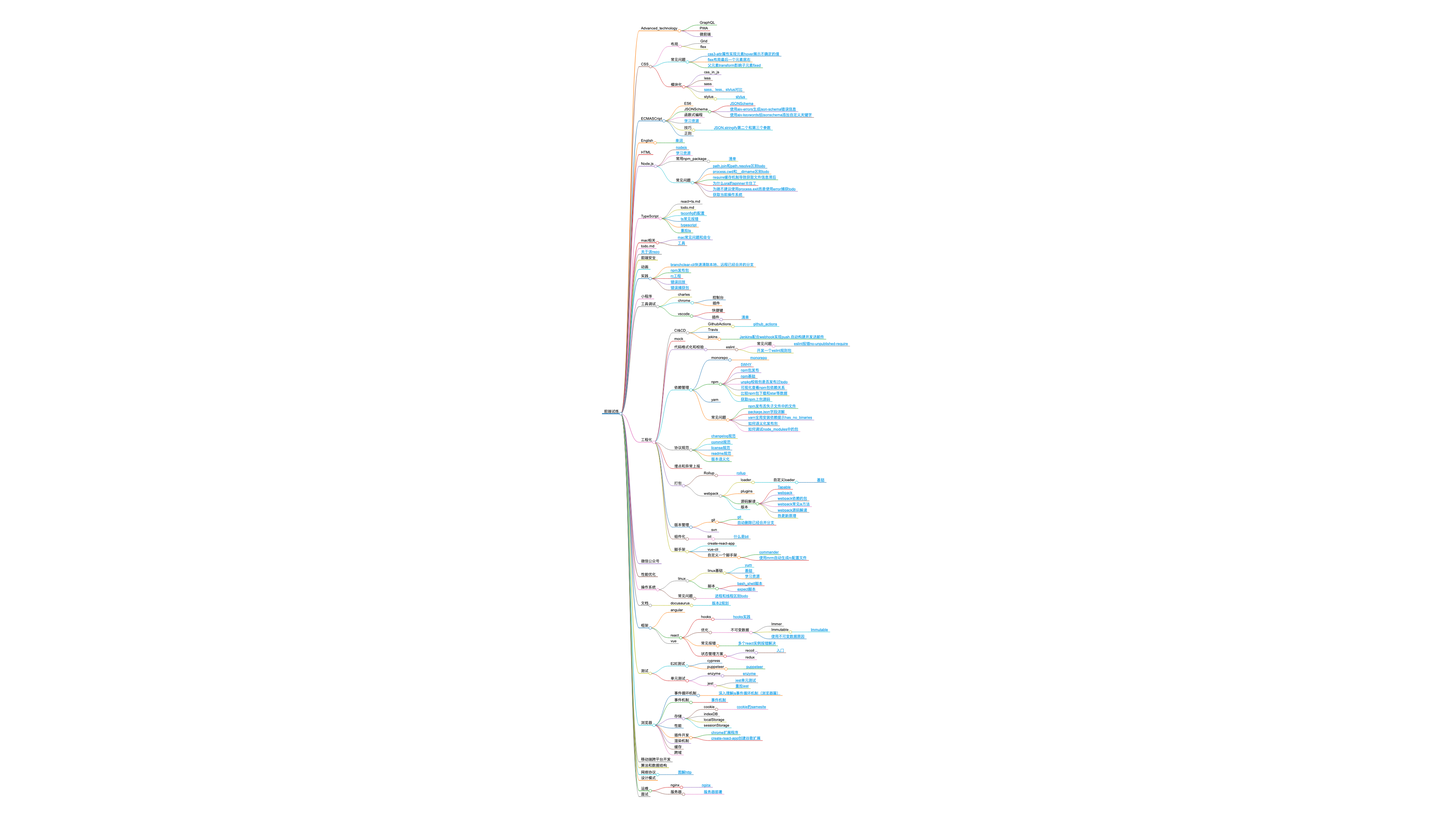
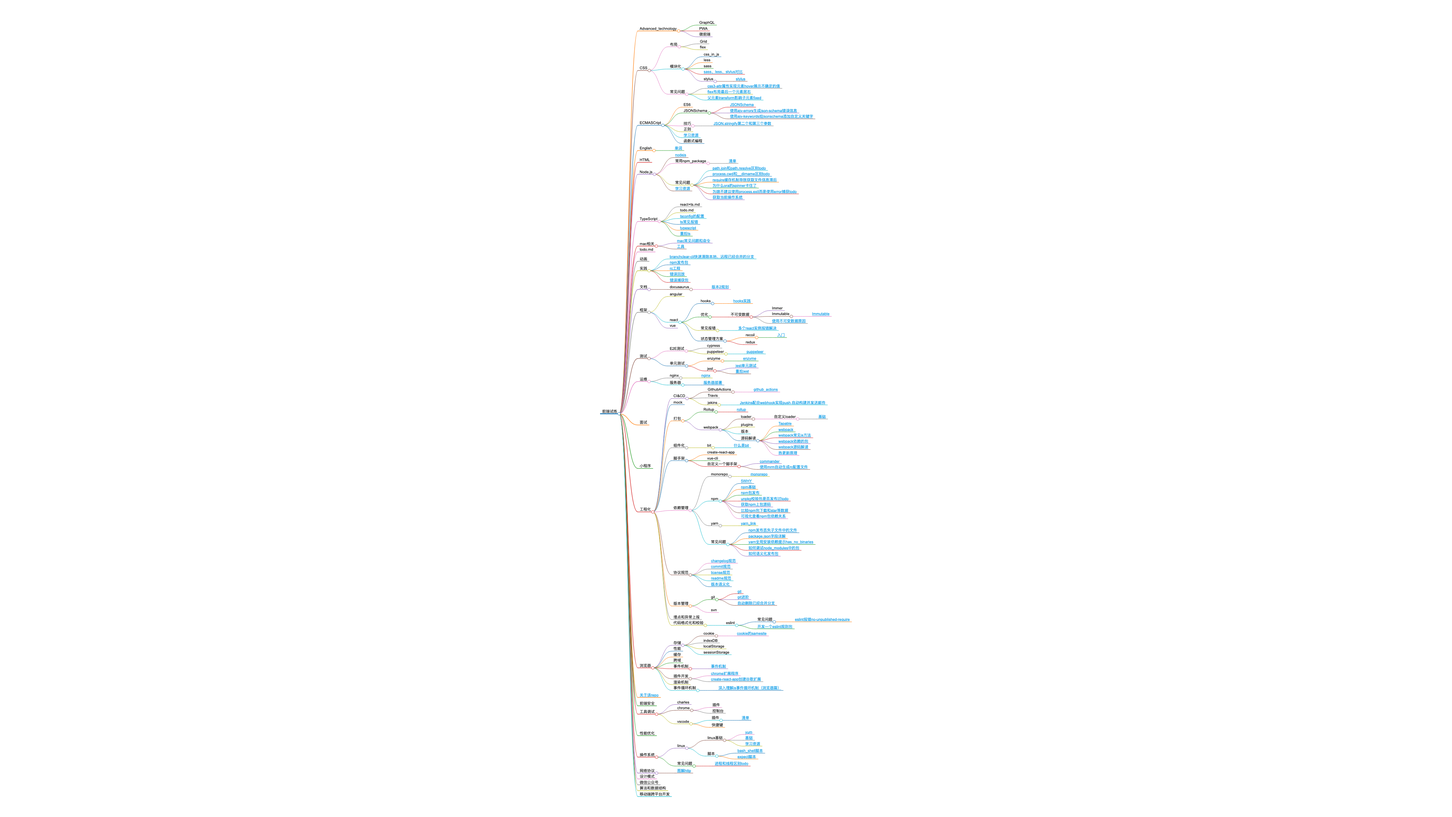
chore: updata思维导图

Changed region(s): [[0.4062, 0.031, 0.5938, 0.9926]]

diff --git a/website/static/xmind.html b/website/static/xmind.html
@@ -28,6 +28,6 @@
         (init ? init(loadPlugins, items, opts) : Promise.resolve()).then(() => {
           window.mm = Markmap.create('svg#mindmap', null, data);
         });
-      })({"t":"heading","d":1,"v":"前端试炼","c":[{"t":"list_item","d":2,"v":"Advanced_technology","c":[{"t":"list_item","d":3,"v":"GraphQL"},{"t":"list_item","d":3,"v":"PWA"},{"t":"list_item","d":3,"v":"微前端"}]},{"t":"list_item","d":2,"v":"CSS","c":[{"t":"list_item","d":3,"v":"布局","c":[{"t":"list_item","d":4,"v":"Grid"},{"t":"list_item","d":4,"v":"flex"}]},{"t":"list_item","d":3,"v":"常见问题","c":[{"t":"list_item","d":4,"v":"<a href=\"docs/CSS/常见问题/61b2f8a60701c5411f074197b3433767\" title=\"\" target=\"_blank\" rel=\"noopener noreferrer\">css3-attr属性实现元素hover展示不确定的值</a>"},{"t":"list_item","d":4,"v":"<a href=\"docs/CSS/常见问题/f62b493f30c8df1b193364b4dee70da6\" title=\"\" target=\"_blank\" rel=\"noopener noreferrer\">flex布局最后一个元素居右</a>"},{"t":"list_item","d":4,"v":"<a href=\"docs/CSS/常见问题/caabb2c62d551b0596f7d903c362be1c\" title=\"\" target=\"_blank\" rel=\"noopener noreferrer\">父元素transform影响子元素fixed</a>"}]},{"t":"list_item","d":3,"v":"模块化","c":[{"t":"list_item","d":4,"v":"css_in_js"},{"t":"list_item","d":4,"v":"less"},{"t":"list_item","d":4,"v":"sass"},{"t":"list_item","d":4,"v":"<a href=\"docs/CSS/模块化/98c70242585e1c8ac87207d342ab81e0\" title=\"\" target=\"_blank\" rel=\"noopener noreferrer\">sass、less、stylus对比</a>"},{"t":"list_item","d":4,"v":"stylus","c":[{"t":"list_item","d":5,"v":"<a href=\"docs/CSS/模块化/stylus/3eef002bc8e16c0f5c28e748a52e231d\" title=\"\" target=\"_blank\" rel=\"noopener noreferrer\">stylus</a>"}]}]}]},{"t":"list_item","d":2,"v":"ECMASCript","c":[{"t":"list_item","d":3,"v":"ES6"},{"t":"list_item","d":3,"v":"JSONSchema","c":[{"t":"list_item","d":4,"v":"<a href=\"docs/ECMASCript/JSONSchema/718deb34c13a2d51e3c2ba69f472fce9\" title=\"\" target=\"_blank\" rel=\"noopener noreferrer\">JSONSchema</a>"},{"t":"list_item","d":4,"v":"<a href=\"docs/ECMASCript/JSONSchema/f7964c8f9054ea24043d6089ad339147\" title=\"\" target=\"_blank\" rel=\"noopener noreferrer\">使用ajv-errors生成json-schema错误信息</a>"},{"t":"list_item","d":4,"v":"<a href=\"docs/ECMASCript/JSONSchema/5237e232cb7cb852580db82169fdcaeb\" title=\"\" target=\"_blank\" rel=\"noopener noreferrer\">使用ajv-keywords给jsonschema添加自定义关键字</a>"}]},{"t":"list_item","d":3,"v":"函数式编程"},{"t":"list_item","d":3,"v":"<a href=\"docs/ECMASCript/b53484b1bcbe1911e09c68d510ac7d64\" title=\"\" target=\"_blank\" rel=\"noopener noreferrer\">学习资源</a>"},{"t":"list_item","d":3,"v":"技巧","c":[{"t":"list_item","d":4,"v":"<a href=\"docs/ECMASCript/技巧/5139b5f5e47a4d72104039ad03405c5d\" title=\"\" target=\"_blank\" rel=\"noopener noreferrer\">JSON.stringify第二个和第三个参数</a>"}]},{"t":"list_item","d":3,"v":"正则"}]},{"t":"list_item","d":2,"v":"English","c":[{"t":"list_item","d":3,"v":"<a href=\"docs/English/72a91cf59167d6c497b1e3057447af5a\" title=\"\" target=\"_blank\" rel=\"noopener noreferrer\">单词</a>"}]},{"t":"list_item","d":2,"v":"HTML"},{"t":"list_item","d":2,"v":"Node.js","c":[{"t":"list_item","d":3,"v":"<a href=\"docs/Node.js/9357827bccfd0bf3ae944e8deeb1fa48\" title=\"\" target=\"_blank\" rel=\"noopener noreferrer\">nodejs</a>"},{"t":"list_item","d":3,"v":"<a href=\"docs/ECMASCript/b53484b1bcbe1911e09c68d510ac7d64\" title=\"\" target=\"_blank\" rel=\"noopener noreferrer\">学习资源</a>"},{"t":"list_item","d":3,"v":"常用npm_package","c":[{"t":"list_item","d":4,"v":"<a href=\"docs/Node.js/常用npm_package/5b48dd8280d9d24945307c72022765a0\" title=\"\" target=\"_blank\" rel=\"noopener noreferrer\">清单</a>"}]},{"t":"list_item","d":3,"v":"常见问题","c":[{"t":"list_item","d":4,"v":"<a href=\"docs/Node.js/常见问题/f874460aea01b819cbf70140c60331a4\" title=\"\" target=\"_blank\" rel=\"noopener noreferrer\">path.join和path.resolve区别todo</a>"},{"t":"list_item","d":4,"v":"<a href=\"docs/Node.js/常见问题/50ed84a6800346cb4b1d9cd9c13745d5\" title=\"\" target=\"_blank\" rel=\"noopener noreferrer\">process.cwd和__dirname区别todo</a>"},{"t":"list_item","d":4,"v":"<a href=\"docs/Node.js/常见问题/6f48d8764eaa96778c489f0f9b512dd3\" title=\"\" target=\"_blank\" rel=\"noopener noreferrer\">require缓存机制导致获取文件信息滞后</a>"},{"t":"list_item","d":4,"v":"<a href=\"docs/Node.js/常见问题/35838b51774b034e2d8dedd5458518ff\" title=\"\" target=\"_blank\" rel=\"noopener noreferrer\">为什么ora的spinner卡住了</a>"},{"t":"list_item","d":4,"v":"<a href=\"docs/Node.js/常见问题/d3fd7ec814edd2f7330387995085241f\" title=\"\" target=\"_blank\" rel=\"noopener noreferrer\">为啥不建议使用process.exit而是使用error捕获todo</a>"},{"t":"list_item","d":4,"v":"<a href=\"docs/Node.js/常见问题/bf0629eadb8aaeb89078485e6f68a4e6\" title=\"\" target=\"_blank\" rel=\"noopener noreferrer\">获取当前操作系统</a>"}]}]},{"t":"list_item","d":2,"v":"TypeScript","c":[{"t":"list_item","d":3,"v":"react+ts.md"},{"t":"list_item","d":3,"v":"todo.md"},{"t":"list_item","d":3,"v":"<a href=\"docs/TypeScript/941029577f8137518ccff8392ddf4bfc\" title=\"\" target=\"_blank\" rel=\"noopener noreferrer\">tsconfig的配置</a>"},{"t":"list_item","d":3,"v":"<a href=\"docs/TypeScript/e387b68cc466c705d3a61c3582db7e05\" title=\"\" target=\"_blank\" rel=\"noopener noreferrer\">ts常见报错</a>"},{"t":"list_item","d":3,"v":"<a href=\"docs/TypeScript/808567b84cc51ad515d4820e54f84e31\" title=\"\" target=\"_blank\" rel=\"noopener noreferrer\">typescript</a>"},{"t":"list_item","d":3,"v":"<a href=\"docs/TypeScript/b36f6376acc1abd98aab96ef91491d2b\" title=\"\" target=\"_blank\" rel=\"noopener noreferrer\">重拾ts</a>"}]},{"t":"list_item","d":2,"v":"mac相关","c":[{"t":"list_item","d":3,"v":"<a href=\"docs/mac相关/f9043ab4f4bd67e13820f42a3e175b56\" title=\"\" target=\"_blank\" rel=\"noopener noreferrer\">mac常见问题和命令</a>"},{"t":"list_item","d":3,"v":"<a href=\"docs/mac相关/82d4f547f3142fe4ef26499f9a3096c0\" title=\"\" target=\"_blank\" rel=\"noopener noreferrer\">工具</a>"}]},{"t":"list_item","d":2,"v":"todo.md"},{"t":"list_item","d":2,"v":"<a href=\"docs/95a148348b289ba387509c05eb1c6af2\" title=\"\" target=\"_blank\" rel=\"noopener noreferrer\">关于该repo</a>"},{"t":"list_item","d":2,"v":"前端安全"},{"t":"list_item","d":2,"v":"动画"},{"t":"list_item","d":2,"v":"实践","c":[{"t":"list_item","d":3,"v":"<a href=\"docs/实践/bff45875a92bdbb4eff38e2fbd282edc\" title=\"\" target=\"_blank\" rel=\"noopener noreferrer\">branchclear-cli快速清除本地、远程已经合并的分支</a>"},{"t":"list_item","d":3,"v":"<a href=\"docs/实践/2469535958ab34e35a788187a49b0f1e\" title=\"\" target=\"_blank\" rel=\"noopener noreferrer\">npm发布包</a>"},{"t":"list_item","d":3,"v":"<a href=\"docs/实践/313041df792b3259a4a58cf8d04c6698\" title=\"\" target=\"_blank\" rel=\"noopener noreferrer\">rc工程</a>"},{"t":"list_item","d":3,"v":"<a href=\"docs/实践/56302d5167213b96a771b67db23abbcc\" title=\"\" target=\"_blank\" rel=\"noopener noreferrer\">错误回放</a>"},{"t":"list_item","d":3,"v":"<a href=\"docs/实践/81ea3d4409458738eefff8329646b6f7\" title=\"\" target=\"_blank\" rel=\"noopener noreferrer\">错误捕获包</a>"}]},{"t":"list_item","d":2,"v":"小程序"},{"t":"list_item","d":2,"v":"工具调试","c":[{"t":"list_item","d":3,"v":"charles"},{"t":"list_item","d":3,"v":"chrome","c":[{"t":"list_item","d":4,"v":"控制台"},{"t":"list_item","d":4,"v":"插件"}]},{"t":"list_item","d":3,"v":"vscode","c":[{"t":"list_item","d":4,"v":"快捷键"},{"t":"list_item","d":4,"v":"插件","c":[{"t":"list_item","d":5,"v":"<a href=\"docs/Node.js/常用npm_package/5b48dd8280d9d24945307c72022765a0\" title=\"\" target=\"_blank\" rel=\"noopener noreferrer\">清单</a>"}]}]}]},{"t":"list_item","d":2,"v":"工程化","c":[{"t":"list_item","d":3,"v":"CI&amp;CD","c":[{"t":"list_item","d":4,"v":"GithubActions","c":[{"t":"list_item","d":5,"v":"<a href=\"docs/工程化/CI&amp;CD/GithubActions/fe800869807e028c2189be18d866bdb6\" title=\"\" target=\"_blank\" rel=\"noopener noreferrer\">github_actions</a>"}]},{"t":"list_item","d":4,"v":"Travis"},{"t":"list_item","d":4,"v":"jekins","c":[{"t":"list_item","d":5,"v":"<a href=\"docs/工程化/CI&amp;CD/jekins/a3cef5366f4fcb032201811a2888d464\" title=\"\" target=\"_blank\" rel=\"noopener noreferrer\">Jenkins配合webhook实现push,自动构建并发送邮件</a>"}]}]},{"t":"list_item","d":3,"v":"mock"},{"t":"list_item","d":3,"v":"代码格式化和校验","c":[{"t":"list_item","d":4,"v":"eslint","c":[{"t":"list_item","d":5,"v":"常见问题","c":[{"t":"list_item","d":6,"v":"<a href=\"docs/工程化/代码格式化和校验/eslint/常见问题/233da306cf55234202a23869df56766b\" title=\"\" target=\"_blank\" rel=\"noopener noreferrer\">eslint报错no-unpublished-require</a>"}]},{"t":"list_item","d":5,"v":"<a href=\"docs/工程化/代码格式化和校验/eslint/a32e173f131f0493cb5fc48bf410366b\" title=\"\" target=\"_blank\" rel=\"noopener noreferrer\">开发一个eslint规则包</a>"}]}]},{"t":"list_item","d":3,"v":"依赖管理","c":[{"t":"list_item","d":4,"v":"monorepo","c":[{"t":"list_item","d":5,"v":"<a href=\"docs/工程化/依赖管理/monorepo/9a9bdec52d1d0df963f2fce797a41aeb\" title=\"\" target=\"_blank\" rel=\"noopener noreferrer\">monorepo</a>"}]},{"t":"list_item","d":4,"v":"npm","c":[{"t":"list_item","d":5,"v":"<a href=\"docs/工程化/依赖管理/npm/15732057d56b45df172c9f42dce5b927\" title=\"\" target=\"_blank\" rel=\"noopener noreferrer\">5WHY</a>"},{"t":"list_item","d":5,"v":"<a href=\"docs/工程化/依赖管理/npm/5fce1d4981826dba4313269418bc61cc\" title=\"\" target=\"_blank\" rel=\"noopener noreferrer\">npm包发布</a>"},{"t":"list_item","d":5,"v":"<a href=\"docs/工程化/依赖管理/npm/b4cd825516ccfa3a2629d71cd4d83e57\" title=\"\" target=\"_blank\" rel=\"noopener noreferrer\">npm基础</a>"},{"t":"list_item","d":5,"v":"<a href=\"docs/工程化/依赖管理/npm/1db0a7579e96a363551decd8e85b6344\" title=\"\" target=\"_blank\" rel=\"noopener noreferrer\">unpkg校验包是否发布过todo</a>"},{"t":"list_item","d":5,"v":"<a href=\"docs/工程化/依赖管理/npm/f60305b20503e9d2ad9309764e2f6033\" title=\"\" target=\"_blank\" rel=\"noopener noreferrer\">可视化查看npm包依赖关系</a>"},{"t":"list_item","d":5,"v":"<a href=\"docs/工程化/依赖管理/npm/3d58eee4c0acb507c3e44d4009328e72\" title=\"\" target=\"_blank\" rel=\"noopener noreferrer\">比较npm包下载和star等数据</a>"},{"t":"list_item","d":5,"v":"<a href=\"docs/工程化/依赖管理/npm/f8e85efb13561e8ef5b95ea6fa058971\" title=\"\" target=\"_blank\" rel=\"noopener noreferrer\">获取npm上包源码</a>"}]},{"t":"list_item","d":4,"v":"yarn"},{"t":"list_item","d":4,"v":"常见问题","c":[{"t":"list_item","d":5,"v":"<a href=\"docs/工程化/依赖管理/常见问题/80c3108e07b7e17fbc2f62fe3ce3cf5a\" title=\"\" target=\"_blank\" rel=\"noopener noreferrer\">npm发布丢失子文件中的文件</a>"},{"t":"list_item","d":5,"v":"<a href=\"docs/工程化/依赖管理/常见问题/4bb2ebe839492522a5f9e23333349030\" title=\"\" target=\"_blank\" rel=\"noopener noreferrer\">package.json字段详解</a>"},{"t":"list_item","d":5,"v":"<a href=\"docs/工程化/依赖管理/常见问题/e2b91ae01897224042badfeabb4e9943\" title=\"\" target=\"_blank\" rel=\"noopener noreferrer\">yarn全局安装依赖提示has_no_binaries</a>"},{"t":"list_item","d":5,"v":"<a href=\"docs/工程化/依赖管理/常见问题/8661f79af48a1805d3bb8e9b0776c7af\" title=\"\" target=\"_blank\" rel=\"noopener noreferrer\">如何语义化发布包</a>"},{"t":"list_item","d":5,"v":"<a href=\"docs/工程化/依赖管理/常见问题/5465da474f6f60291fb1a253cce06f5f\" title=\"\" target=\"_blank\" rel=\"noopener noreferrer\">如何调试node_modules中的包</a>"}]}]},{"t":"list_item","d":3,"v":"协议规范","c":[{"t":"list_item","d":4,"v":"<a href=\"docs/工程化/协议规范/63e3f15bc79b1f9b0c4d967587030c59\" title=\"\" target=\"_blank\" rel=\"noopener noreferrer\">changelog规范</a>"},{"t":"list_item","d":4,"v":"<a href=\"docs/工程化/协议规范/ea0f1a36d31f9c158a2e4ccfce38a876\" title=\"\" target=\"_blank\" rel=\"noopener noreferrer\">commit规范</a>"},{"t":"list_item","d":4,"v":"<a href=\"docs/工程化/协议规范/7cb3f7a96ffb83a09cd86829799a9fbf\" title=\"\" target=\"_blank\" rel=\"noopener noreferrer\">license规范</a>"},{"t":"list_item","d":4,"v":"<a href=\"docs/工程化/协议规范/49a592b47a06fa922f7d3741cac14eb8\" title=\"\" target=\"_blank\" rel=\"noopener noreferrer\">readme规范</a>"},{"t":"list_item","d":4,"v":"<a href=\"docs/工程化/协议规范/6da04cfcfd8b3c384aac71250ab4ca40\" title=\"\" target=\"_blank\" rel=\"noopener noreferrer\">版本语义化</a>"}]},{"t":"list_item","d":3,"v":"埋点和异常上报"},{"t":"list_item","d":3,"v":"打包","c":[{"t":"list_item","d":4,"v":"Rollup","c":[{"t":"list_item","d":5,"v":"<a href=\"docs/工程化/打包/Rollup/4918d3072fb3da6be9ad6cfe54c020f3\" title=\"\" target=\"_blank\" rel=\"noopener noreferrer\">rollup</a>"}]},{"t":"list_item","d":4,"v":"webpack","c":[{"t":"list_item","d":5,"v":"loader","c":[{"t":"list_item","d":6,"v":"自定义loader","c":[{"t":"list_item","d":7,"v":"<a href=\"docs/工程化/打包/webpack/loader/自定义loader/bb6fe2d423417230b7c365bc5b206c5c\" title=\"\" target=\"_blank\" rel=\"noopener noreferrer\">基础</a>"}]}]},{"t":"list_item","d":5,"v":"plugins"},{"t":"list_item","d":5,"v":"源码解读","c":[{"t":"list_item","d":6,"v":"<a href=\"docs/工程化/打包/webpack/源码解读/3044cf73a36f83e5344247f79ffb719e\" title=\"\" target=\"_blank\" rel=\"noopener noreferrer\">Tapable</a>"},{"t":"list_item","d":6,"v":"<a href=\"docs/工程化/打包/webpack/源码解读/8b9409a6ad189493556150ffca9a2079\" title=\"\" target=\"_blank\" rel=\"noopener noreferrer\">webpack</a>"},{"t":"list_item","d":6,"v":"<a href=\"docs/工程化/打包/webpack/源码解读/0889ebe5191ee49173a6c02e5d4ccd6f\" title=\"\" target=\"_blank\" rel=\"noopener noreferrer\">webpack依赖的包</a>"},{"t":"list_item","d":6,"v":"<a href=\"docs/工程化/打包/webpack/源码解读/7cb10912f28c1696659c6131b517f27c\" title=\"\" target=\"_blank\" rel=\"noopener noreferrer\">webpack常见js方法</a>"},{"t":"list_item","d":6,"v":"<a href=\"docs/工程化/打包/webpack/源码解读/80e8979bbebe30571bf98fea6d3b32d0\" title=\"\" target=\"_blank\" rel=\"noopener noreferrer\">webpack源码解读</a>"},{"t":"list_item","d":6,"v":"<a href=\"docs/工程化/打包/webpack/源码解读/768e191e2dc797ba437ddbf619dcf3b5\" title=\"\" target=\"_blank\" rel=\"noopener noreferrer\">热更新原理</a>"}]},{"t":"list_item","d":5,"v":"版本"}]}]},{"t":"list_item","d":3,"v":"版本管理","c":[{"t":"list_item","d":4,"v":"git","c":[{"t":"list_item","d":5,"v":"<a href=\"docs/工程化/版本管理/git/a3c10acfacecd20085ffd19a4b785459\" title=\"\" target=\"_blank\" rel=\"noopener noreferrer\">git</a>"},{"t":"list_item","d":5,"v":"<a href=\"docs/工程化/版本管理/git/d22c453d0f1b235abd0a15ed6699608a\" title=\"\" target=\"_blank\" rel=\"noopener noreferrer\">自动删除已经合并分支</a>"}]},{"t":"list_item","d":4,"v":"svn"}]},{"t":"list_item","d":3,"v":"组件化","c":[{"t":"list_item","d":4,"v":"bit","c":[{"t":"list_item","d":5,"v":"<a href=\"docs/工程化/组件化/bit/be1ca961dc46d96b90f640b1a9f91637\" title=\"\" target=\"_blank\" rel=\"noopener noreferrer\">什么是bit</a>"}]}]},{"t":"list_item","d":3,"v":"脚手架","c":[{"t":"list_item","d":4,"v":"create-react-app"},{"t":"list_item","d":4,"v":"vue-cli"},{"t":"list_item","d":4,"v":"自定义一个脚手架","c":[{"t":"list_item","d":5,"v":"<a href=\"docs/工程化/脚手架/自定义一个脚手架/e1f3c1423014acd77d6282114faf6935\" title=\"\" target=\"_blank\" rel=\"noopener noreferrer\">commander</a>"},{"t":"list_item","d":5,"v":"<a href=\"docs/工程化/脚手架/自定义一个脚手架/a22104b4d4d83949f5bd3d6a37f5e0e6\" title=\"\" target=\"_blank\" rel=\"noopener noreferrer\">使用mrm自动生成rc配置文件</a>"}]}]}]},{"t":"list_item","d":2,"v":"微信公众号"},{"t":"list_item","d":2,"v":"性能优化"},{"t":"list_item","d":2,"v":"操作系统","c":[{"t":"list_item","d":3,"v":"linux","c":[{"t":"list_item","d":4,"v":"linux基础","c":[{"t":"list_item","d":5,"v":"<a href=\"docs/操作系统/linux/linux基础/4c70355f2f692142ff83f1581fd5342c\" title=\"\" target=\"_blank\" rel=\"noopener noreferrer\">yum</a>"},{"t":"list_item","d":5,"v":"<a href=\"docs/工程化/打包/webpack/loader/自定义loader/bb6fe2d423417230b7c365bc5b206c5c\" title=\"\" target=\"_blank\" rel=\"noopener noreferrer\">基础</a>"},{"t":"list_item","d":5,"v":"<a href=\"docs/ECMASCript/b53484b1bcbe1911e09c68d510ac7d64\" title=\"\" target=\"_blank\" rel=\"noopener noreferrer\">学习资源</a>"}]},{"t":"list_item","d":4,"v":"脚本","c":[{"t":"list_item","d":5,"v":"<a href=\"docs/操作系统/linux/脚本/5d8743a01675138db72310478b6c7f30\" title=\"\" target=\"_blank\" rel=\"noopener noreferrer\">bash_shell脚本</a>"},{"t":"list_item","d":5,"v":"<a href=\"docs/操作系统/linux/脚本/c89e3ed149c086944696ba0fe3a5ffde\" title=\"\" target=\"_blank\" rel=\"noopener noreferrer\">expect脚本</a>"}]}]},{"t":"list_item","d":3,"v":"常见问题","c":[{"t":"list_item","d":4,"v":"<a href=\"docs/操作系统/常见问题/266a427dc6cbff56d8603056f435a8b9\" title=\"\" target=\"_blank\" rel=\"noopener noreferrer\">进程和线程区别todo</a>"}]}]},{"t":"list_item","d":2,"v":"文档","c":[{"t":"list_item","d":3,"v":"docusaurus","c":[{"t":"list_item","d":4,"v":"<a href=\"docs/文档/docusaurus/a7934b68b6234157a1af4087537d1e8b\" title=\"\" target=\"_blank\" rel=\"noopener noreferrer\">版本2规划</a>"}]}]},{"t":"list_item","d":2,"v":"框架","c":[{"t":"list_item","d":3,"v":"angular"},{"t":"list_item","d":3,"v":"react","c":[{"t":"list_item","d":4,"v":"hooks","c":[{"t":"list_item","d":5,"v":"<a href=\"docs/框架/react/hooks/9991378aff737eabebd91bfda98cdb30\" title=\"\" target=\"_blank\" rel=\"noopener noreferrer\">hooks实践</a>"}]},{"t":"list_item","d":4,"v":"优化","c":[{"t":"list_item","d":5,"v":"不可变数据","c":[{"t":"list_item","d":6,"v":"Immer"},{"t":"list_item","d":6,"v":"Immutable","c":[{"t":"list_item","d":7,"v":"<a href=\"docs/框架/react/优化/不可变数据/Immutable/621796f5446f10b3efc9f3e9e5ba1f85\" title=\"\" target=\"_blank\" rel=\"noopener noreferrer\">Immutable</a>"}]},{"t":"list_item","d":6,"v":"<a href=\"docs/框架/react/优化/不可变数据/5dbc6cd87c89bc3c45fc1c7847cf5f4a\" title=\"\" target=\"_blank\" rel=\"noopener noreferrer\">使用不可变数据原因</a>"}]}]},{"t":"list_item","d":4,"v":"常见报错","c":[{"t":"list_item","d":5,"v":"<a href=\"docs/框架/react/常见报错/7d0e60c89a5f550eadf89f5f22550bcc\" title=\"\" target=\"_blank\" rel=\"noopener noreferrer\">多个react实例报错解决</a>"}]},{"t":"list_item","d":4,"v":"状态管理方案","c":[{"t":"list_item","d":5,"v":"recoil","c":[{"t":"list_item","d":6,"v":"<a href=\"docs/框架/react/状态管理方案/recoil/f875b638480655fa74ed57f634dda816\" title=\"\" target=\"_blank\" rel=\"noopener noreferrer\">入门</a>"}]},{"t":"list_item","d":5,"v":"redux"}]}]},{"t":"list_item","d":3,"v":"vue"}]},{"t":"list_item","d":2,"v":"测试","c":[{"t":"list_item","d":3,"v":"E2E测试","c":[{"t":"list_item","d":4,"v":"cypress"},{"t":"list_item","d":4,"v":"puppeteer","c":[{"t":"list_item","d":5,"v":"<a href=\"docs/测试/E2E测试/puppeteer/179673e977b3c3f9ad055a4b4a1e4eff\" title=\"\" target=\"_blank\" rel=\"noopener noreferrer\">puppeteer</a>"}]}]},{"t":"list_item","d":3,"v":"单元测试","c":[{"t":"list_item","d":4,"v":"enzyme","c":[{"t":"list_item","d":5,"v":"<a href=\"docs/测试/单元测试/enzyme/ff68fd239a281351a53d6e0b62b17fe7\" title=\"\" target=\"_blank\" rel=\"noopener noreferrer\">enzyme</a>"}]},{"t":"list_item","d":4,"v":"jest","c":[{"t":"list_item","d":5,"v":"<a href=\"docs/测试/单元测试/jest/094b039468990ad513f1f8dd484d8dc2\" title=\"\" target=\"_blank\" rel=\"noopener noreferrer\">jest单元测试</a>"},{"t":"list_item","d":5,"v":"<a href=\"docs/测试/单元测试/jest/b1f6cee7ef1784df1f5f69a9c4a785da\" title=\"\" target=\"_blank\" rel=\"noopener noreferrer\">重拾jest</a>"}]}]}]},{"t":"list_item","d":2,"v":"浏览器","c":[{"t":"list_item","d":3,"v":"事件循环机制","c":[{"t":"list_item","d":4,"v":"<a href=\"docs/浏览器/事件循环机制/9cf564181c2b2d6a44c89a4d1f4f0952\" title=\"\" target=\"_blank\" rel=\"noopener noreferrer\">深入理解js事件循环机制（浏览器篇）</a>"}]},{"t":"list_item","d":3,"v":"事件机制","c":[{"t":"list_item","d":4,"v":"<a href=\"docs/浏览器/事件机制/87752b53c7784786dab3942f0aaa23aa\" title=\"\" target=\"_blank\" rel=\"noopener noreferrer\">事件机制</a>"}]},{"t":"list_item","d":3,"v":"存储","c":[{"t":"list_item","d":4,"v":"cookie","c":[{"t":"list_item","d":5,"v":"<a href=\"docs/浏览器/存储/cookie/e246237f5824539bdb32194314b5afd5\" title=\"\" target=\"_blank\" rel=\"noopener noreferrer\">cookie的samesite</a>"}]},{"t":"list_item","d":4,"v":"indexDB"},{"t":"list_item","d":4,"v":"localStorage"},{"t":"list_item","d":4,"v":"sessionStorage"}]},{"t":"list_item","d":3,"v":"性能"},{"t":"list_item","d":3,"v":"插件开发","c":[{"t":"list_item","d":4,"v":"<a href=\"docs/浏览器/插件开发/05456f7f836f1d5ccf67498cad9d6745\" title=\"\" target=\"_blank\" rel=\"noopener noreferrer\">chrome扩展程序</a>"},{"t":"list_item","d":4,"v":"<a href=\"docs/浏览器/插件开发/4a29e3516544d5fec60d6c604d33dd46\" title=\"\" target=\"_blank\" rel=\"noopener noreferrer\">create-react-app创建谷歌扩展</a>"}]},{"t":"list_item","d":3,"v":"渲染机制"},{"t":"list_item","d":3,"v":"缓存"},{"t":"list_item","d":3,"v":"跨域"}]},{"t":"list_item","d":2,"v":"移动端跨平台开发"},{"t":"list_item","d":2,"v":"算法和数据结构"},{"t":"list_item","d":2,"v":"网络协议","c":[{"t":"list_item","d":3,"v":"<a href=\"docs/网络协议/51598b43a209ae4d33a59bb92df20032\" title=\"\" target=\"_blank\" rel=\"noopener noreferrer\">图解http</a>"}]},{"t":"list_item","d":2,"v":"设计模式"},{"t":"list_item","d":2,"v":"运维","c":[{"t":"list_item","d":3,"v":"nginx","c":[{"t":"list_item","d":4,"v":"<a href=\"docs/运维/nginx/c135a55ada5c373bcd601d340d2d1943\" title=\"\" target=\"_blank\" rel=\"noopener noreferrer\">nginx</a>"}]},{"t":"list_item","d":3,"v":"服务器","c":[{"t":"list_item","d":4,"v":"<a href=\"docs/运维/服务器/4534c39b9f5e4932e9fafed646293fde\" title=\"\" target=\"_blank\" rel=\"noopener noreferrer\">服务器部署</a>"}]}]},{"t":"list_item","d":2,"v":"面试"}]},(loadPlugins, items, opts) => loadPlugins(items, opts),["prism"],{"prism":true})</script>
+      })({"t":"heading","d":1,"v":"前端试炼","c":[{"t":"list_item","d":2,"v":"Advanced_technology","c":[{"t":"list_item","d":3,"v":"GraphQL"},{"t":"list_item","d":3,"v":"PWA"},{"t":"list_item","d":3,"v":"微前端"}]},{"t":"list_item","d":2,"v":"CSS","c":[{"t":"list_item","d":3,"v":"布局","c":[{"t":"list_item","d":4,"v":"Grid"},{"t":"list_item","d":4,"v":"flex"}]},{"t":"list_item","d":3,"v":"模块化","c":[{"t":"list_item","d":4,"v":"css_in_js"},{"t":"list_item","d":4,"v":"less"},{"t":"list_item","d":4,"v":"sass"},{"t":"list_item","d":4,"v":"<a href=\"docs/CSS/模块化/98c70242585e1c8ac87207d342ab81e0\" title=\"\" target=\"_blank\" rel=\"noopener noreferrer\">sass、less、stylus对比</a>"},{"t":"list_item","d":4,"v":"stylus","c":[{"t":"list_item","d":5,"v":"<a href=\"docs/CSS/模块化/stylus/3eef002bc8e16c0f5c28e748a52e231d\" title=\"\" target=\"_blank\" rel=\"noopener noreferrer\">stylus</a>"}]}]},{"t":"list_item","d":3,"v":"常见问题","c":[{"t":"list_item","d":4,"v":"<a href=\"docs/CSS/常见问题/61b2f8a60701c5411f074197b3433767\" title=\"\" target=\"_blank\" rel=\"noopener noreferrer\">css3-attr属性实现元素hover展示不确定的值</a>"},{"t":"list_item","d":4,"v":"<a href=\"docs/CSS/常见问题/f62b493f30c8df1b193364b4dee70da6\" title=\"\" target=\"_blank\" rel=\"noopener noreferrer\">flex布局最后一个元素居右</a>"},{"t":"list_item","d":4,"v":"<a href=\"docs/CSS/常见问题/caabb2c62d551b0596f7d903c362be1c\" title=\"\" target=\"_blank\" rel=\"noopener noreferrer\">父元素transform影响子元素fixed</a>"}]}]},{"t":"list_item","d":2,"v":"ECMASCript","c":[{"t":"list_item","d":3,"v":"ES6"},{"t":"list_item","d":3,"v":"JSONSchema","c":[{"t":"list_item","d":4,"v":"<a href=\"docs/ECMASCript/JSONSchema/718deb34c13a2d51e3c2ba69f472fce9\" title=\"\" target=\"_blank\" rel=\"noopener noreferrer\">JSONSchema</a>"},{"t":"list_item","d":4,"v":"<a href=\"docs/ECMASCript/JSONSchema/f7964c8f9054ea24043d6089ad339147\" title=\"\" target=\"_blank\" rel=\"noopener noreferrer\">使用ajv-errors生成json-schema错误信息</a>"},{"t":"list_item","d":4,"v":"<a href=\"docs/ECMASCript/JSONSchema/5237e232cb7cb852580db82169fdcaeb\" title=\"\" target=\"_blank\" rel=\"noopener noreferrer\">使用ajv-keywords给jsonschema添加自定义关键字</a>"}]},{"t":"list_item","d":3,"v":"技巧","c":[{"t":"list_item","d":4,"v":"<a href=\"docs/ECMASCript/技巧/5139b5f5e47a4d72104039ad03405c5d\" title=\"\" target=\"_blank\" rel=\"noopener noreferrer\">JSON.stringify第二个和第三个参数</a>"}]},{"t":"list_item","d":3,"v":"正则"},{"t":"list_item","d":3,"v":"<a href=\"docs/ECMASCript/b53484b1bcbe1911e09c68d510ac7d64\" title=\"\" target=\"_blank\" rel=\"noopener noreferrer\">学习资源</a>"},{"t":"list_item","d":3,"v":"函数式编程"}]},{"t":"list_item","d":2,"v":"English","c":[{"t":"list_item","d":3,"v":"<a href=\"docs/English/72a91cf59167d6c497b1e3057447af5a\" title=\"\" target=\"_blank\" rel=\"noopener noreferrer\">单词</a>"}]},{"t":"list_item","d":2,"v":"HTML"},{"t":"list_item","d":2,"v":"Node.js","c":[{"t":"list_item","d":3,"v":"<a href=\"docs/Node.js/9357827bccfd0bf3ae944e8deeb1fa48\" title=\"\" target=\"_blank\" rel=\"noopener noreferrer\">nodejs</a>"},{"t":"list_item","d":3,"v":"常用npm_package","c":[{"t":"list_item","d":4,"v":"<a href=\"docs/Node.js/常用npm_package/9688efbb3877b7be40b25452ccaef48f\" title=\"\" target=\"_blank\" rel=\"noopener noreferrer\">清单</a>"}]},{"t":"list_item","d":3,"v":"常见问题","c":[{"t":"list_item","d":4,"v":"<a href=\"docs/Node.js/常见问题/f874460aea01b819cbf70140c60331a4\" title=\"\" target=\"_blank\" rel=\"noopener noreferrer\">path.join和path.resolve区别todo</a>"},{"t":"list_item","d":4,"v":"<a href=\"docs/Node.js/常见问题/50ed84a6800346cb4b1d9cd9c13745d5\" title=\"\" target=\"_blank\" rel=\"noopener noreferrer\">process.cwd和__dirname区别todo</a>"},{"t":"list_item","d":4,"v":"<a href=\"docs/Node.js/常见问题/6f48d8764eaa96778c489f0f9b512dd3\" title=\"\" target=\"_blank\" rel=\"noopener noreferrer\">require缓存机制导致获取文件信息滞后</a>"},{"t":"list_item","d":4,"v":"<a href=\"docs/Node.js/常见问题/35838b51774b034e2d8dedd5458518ff\" title=\"\" target=\"_blank\" rel=\"noopener noreferrer\">为什么ora的spinner卡住了</a>"},{"t":"list_item","d":4,"v":"<a href=\"docs/Node.js/常见问题/d3fd7ec814edd2f7330387995085241f\" title=\"\" target=\"_blank\" rel=\"noopener noreferrer\">为啥不建议使用process.exit而是使用error捕获todo</a>"},{"t":"list_item","d":4,"v":"<a href=\"docs/Node.js/常见问题/bf0629eadb8aaeb89078485e6f68a4e6\" title=\"\" target=\"_blank\" rel=\"noopener noreferrer\">获取当前操作系统</a>"}]},{"t":"list_item","d":3,"v":"<a href=\"docs/ECMASCript/b53484b1bcbe1911e09c68d510ac7d64\" title=\"\" target=\"_blank\" rel=\"noopener noreferrer\">学习资源</a>"}]},{"t":"list_item","d":2,"v":"TypeScript","c":[{"t":"list_item","d":3,"v":"react+ts.md"},{"t":"list_item","d":3,"v":"todo.md"},{"t":"list_item","d":3,"v":"<a href=\"docs/TypeScript/941029577f8137518ccff8392ddf4bfc\" title=\"\" target=\"_blank\" rel=\"noopener noreferrer\">tsconfig的配置</a>"},{"t":"list_item","d":3,"v":"<a href=\"docs/TypeScript/e387b68cc466c705d3a61c3582db7e05\" title=\"\" target=\"_blank\" rel=\"noopener noreferrer\">ts常见报错</a>"},{"t":"list_item","d":3,"v":"<a href=\"docs/TypeScript/808567b84cc51ad515d4820e54f84e31\" title=\"\" target=\"_blank\" rel=\"noopener noreferrer\">typescript</a>"},{"t":"list_item","d":3,"v":"<a href=\"docs/TypeScript/b36f6376acc1abd98aab96ef91491d2b\" title=\"\" target=\"_blank\" rel=\"noopener noreferrer\">重拾ts</a>"}]},{"t":"list_item","d":2,"v":"mac相关","c":[{"t":"list_item","d":3,"v":"<a href=\"docs/mac相关/f9043ab4f4bd67e13820f42a3e175b56\" title=\"\" target=\"_blank\" rel=\"noopener noreferrer\">mac常见问题和命令</a>"},{"t":"list_item","d":3,"v":"<a href=\"docs/mac相关/82d4f547f3142fe4ef26499f9a3096c0\" title=\"\" target=\"_blank\" rel=\"noopener noreferrer\">工具</a>"}]},{"t":"list_item","d":2,"v":"todo.md"},{"t":"list_item","d":2,"v":"动画"},{"t":"list_item","d":2,"v":"实践","c":[{"t":"list_item","d":3,"v":"<a href=\"docs/实践/bff45875a92bdbb4eff38e2fbd282edc\" title=\"\" target=\"_blank\" rel=\"noopener noreferrer\">branchclear-cli快速清除本地、远程已经合并的分支</a>"},{"t":"list_item","d":3,"v":"<a href=\"docs/实践/2469535958ab34e35a788187a49b0f1e\" title=\"\" target=\"_blank\" rel=\"noopener noreferrer\">npm发布包</a>"},{"t":"list_item","d":3,"v":"<a href=\"docs/实践/313041df792b3259a4a58cf8d04c6698\" title=\"\" target=\"_blank\" rel=\"noopener noreferrer\">rc工程</a>"},{"t":"list_item","d":3,"v":"<a href=\"docs/实践/56302d5167213b96a771b67db23abbcc\" title=\"\" target=\"_blank\" rel=\"noopener noreferrer\">错误回放</a>"},{"t":"list_item","d":3,"v":"<a href=\"docs/实践/81ea3d4409458738eefff8329646b6f7\" title=\"\" target=\"_blank\" rel=\"noopener noreferrer\">错误捕获包</a>"}]},{"t":"list_item","d":2,"v":"文档","c":[{"t":"list_item","d":3,"v":"docusaurus","c":[{"t":"list_item","d":4,"v":"<a href=\"docs/文档/docusaurus/a7934b68b6234157a1af4087537d1e8b\" title=\"\" target=\"_blank\" rel=\"noopener noreferrer\">版本2规划</a>"}]}]},{"t":"list_item","d":2,"v":"框架","c":[{"t":"list_item","d":3,"v":"angular"},{"t":"list_item","d":3,"v":"react","c":[{"t":"list_item","d":4,"v":"hooks","c":[{"t":"list_item","d":5,"v":"<a href=\"docs/框架/react/hooks/9991378aff737eabebd91bfda98cdb30\" title=\"\" target=\"_blank\" rel=\"noopener noreferrer\">hooks实践</a>"}]},{"t":"list_item","d":4,"v":"优化","c":[{"t":"list_item","d":5,"v":"不可变数据","c":[{"t":"list_item","d":6,"v":"Immer"},{"t":"list_item","d":6,"v":"Immutable","c":[{"t":"list_item","d":7,"v":"<a href=\"docs/框架/react/优化/不可变数据/Immutable/621796f5446f10b3efc9f3e9e5ba1f85\" title=\"\" target=\"_blank\" rel=\"noopener noreferrer\">Immutable</a>"}]},{"t":"list_item","d":6,"v":"<a href=\"docs/框架/react/优化/不可变数据/5dbc6cd87c89bc3c45fc1c7847cf5f4a\" title=\"\" target=\"_blank\" rel=\"noopener noreferrer\">使用不可变数据原因</a>"}]}]},{"t":"list_item","d":4,"v":"常见报错","c":[{"t":"list_item","d":5,"v":"<a href=\"docs/框架/react/常见报错/7d0e60c89a5f550eadf89f5f22550bcc\" title=\"\" target=\"_blank\" rel=\"noopener noreferrer\">多个react实例报错解决</a>"}]},{"t":"list_item","d":4,"v":"状态管理方案","c":[{"t":"list_item","d":5,"v":"recoil","c":[{"t":"list_item","d":6,"v":"<a href=\"docs/框架/react/状态管理方案/recoil/f875b638480655fa74ed57f634dda816\" title=\"\" target=\"_blank\" rel=\"noopener noreferrer\">入门</a>"}]},{"t":"list_item","d":5,"v":"redux"}]}]},{"t":"list_item","d":3,"v":"vue"}]},{"t":"list_item","d":2,"v":"测试","c":[{"t":"list_item","d":3,"v":"E2E测试","c":[{"t":"list_item","d":4,"v":"cypress"},{"t":"list_item","d":4,"v":"puppeteer","c":[{"t":"list_item","d":5,"v":"<a href=\"docs/测试/E2E测试/puppeteer/179673e977b3c3f9ad055a4b4a1e4eff\" title=\"\" target=\"_blank\" rel=\"noopener noreferrer\">puppeteer</a>"}]}]},{"t":"list_item","d":3,"v":"单元测试","c":[{"t":"list_item","d":4,"v":"enzyme","c":[{"t":"list_item","d":5,"v":"<a href=\"docs/测试/单元测试/enzyme/ff68fd239a281351a53d6e0b62b17fe7\" title=\"\" target=\"_blank\" rel=\"noopener noreferrer\">enzyme</a>"}]},{"t":"list_item","d":4,"v":"jest","c":[{"t":"list_item","d":5,"v":"<a href=\"docs/测试/单元测试/jest/094b039468990ad513f1f8dd484d8dc2\" title=\"\" target=\"_blank\" rel=\"noopener noreferrer\">jest单元测试</a>"},{"t":"list_item","d":5,"v":"<a href=\"docs/测试/单元测试/jest/b1f6cee7ef1784df1f5f69a9c4a785da\" title=\"\" target=\"_blank\" rel=\"noopener noreferrer\">重拾jest</a>"}]}]}]},{"t":"list_item","d":2,"v":"运维","c":[{"t":"list_item","d":3,"v":"nginx","c":[{"t":"list_item","d":4,"v":"<a href=\"docs/运维/nginx/c135a55ada5c373bcd601d340d2d1943\" title=\"\" target=\"_blank\" rel=\"noopener noreferrer\">nginx</a>"}]},{"t":"list_item","d":3,"v":"服务器","c":[{"t":"list_item","d":4,"v":"<a href=\"docs/运维/服务器/4534c39b9f5e4932e9fafed646293fde\" title=\"\" target=\"_blank\" rel=\"noopener noreferrer\">服务器部署</a>"}]}]},{"t":"list_item","d":2,"v":"面试"},{"t":"list_item","d":2,"v":"小程序"},{"t":"list_item","d":2,"v":"工程化","c":[{"t":"list_item","d":3,"v":"CI&amp;CD","c":[{"t":"list_item","d":4,"v":"GithubActions","c":[{"t":"list_item","d":5,"v":"<a href=\"docs/工程化/CI&amp;CD/GithubActions/fe800869807e028c2189be18d866bdb6\" title=\"\" target=\"_blank\" rel=\"noopener noreferrer\">github_actions</a>"}]},{"t":"list_item","d":4,"v":"Travis"},{"t":"list_item","d":4,"v":"jekins","c":[{"t":"list_item","d":5,"v":"<a href=\"docs/工程化/CI&amp;CD/jekins/a3cef5366f4fcb032201811a2888d464\" title=\"\" target=\"_blank\" rel=\"noopener noreferrer\">Jenkins配合webhook实现push,自动构建并发送邮件</a>"}]}]},{"t":"list_item","d":3,"v":"mock"},{"t":"list_item","d":3,"v":"打包","c":[{"t":"list_item","d":4,"v":"Rollup","c":[{"t":"list_item","d":5,"v":"<a href=\"docs/工程化/打包/Rollup/4918d3072fb3da6be9ad6cfe54c020f3\" title=\"\" target=\"_blank\" rel=\"noopener noreferrer\">rollup</a>"}]},{"t":"list_item","d":4,"v":"webpack","c":[{"t":"list_item","d":5,"v":"loader","c":[{"t":"list_item","d":6,"v":"自定义loader","c":[{"t":"list_item","d":7,"v":"<a href=\"docs/工程化/打包/webpack/loader/自定义loader/bb6fe2d423417230b7c365bc5b206c5c\" title=\"\" target=\"_blank\" rel=\"noopener noreferrer\">基础</a>"}]}]},{"t":"list_item","d":5,"v":"plugins"},{"t":"list_item","d":5,"v":"版本"},{"t":"list_item","d":5,"v":"源码解读","c":[{"t":"list_item","d":6,"v":"<a href=\"docs/工程化/打包/webpack/源码解读/3044cf73a36f83e5344247f79ffb719e\" title=\"\" target=\"_blank\" rel=\"noopener noreferrer\">Tapable</a>"},{"t":"list_item","d":6,"v":"<a href=\"docs/工程化/打包/webpack/源码解读/8b9409a6ad189493556150ffca9a2079\" title=\"\" target=\"_blank\" rel=\"noopener noreferrer\">webpack</a>"},{"t":"list_item","d":6,"v":"<a href=\"docs/工程化/打包/webpack/源码解读/7cb10912f28c1696659c6131b517f27c\" title=\"\" target=\"_blank\" rel=\"noopener noreferrer\">webpack常见js方法</a>"},{"t":"list_item","d":6,"v":"<a href=\"docs/工程化/打包/webpack/源码解读/0889ebe5191ee49173a6c02e5d4ccd6f\" title=\"\" target=\"_blank\" rel=\"noopener noreferrer\">webpack依赖的包</a>"},{"t":"list_item","d":6,"v":"<a href=\"docs/工程化/打包/webpack/源码解读/80e8979bbebe30571bf98fea6d3b32d0\" title=\"\" target=\"_blank\" rel=\"noopener noreferrer\">webpack源码解读</a>"},{"t":"list_item","d":6,"v":"<a href=\"docs/工程化/打包/webpack/源码解读/768e191e2dc797ba437ddbf619dcf3b5\" title=\"\" target=\"_blank\" rel=\"noopener noreferrer\">热更新原理</a>"}]}]}]},{"t":"list_item","d":3,"v":"组件化","c":[{"t":"list_item","d":4,"v":"bit","c":[{"t":"list_item","d":5,"v":"<a href=\"docs/工程化/组件化/bit/be1ca961dc46d96b90f640b1a9f91637\" title=\"\" target=\"_blank\" rel=\"noopener noreferrer\">什么是bit</a>"}]}]},{"t":"list_item","d":3,"v":"脚手架","c":[{"t":"list_item","d":4,"v":"create-react-app"},{"t":"list_item","d":4,"v":"vue-cli"},{"t":"list_item","d":4,"v":"自定义一个脚手架","c":[{"t":"list_item","d":5,"v":"<a href=\"docs/工程化/脚手架/自定义一个脚手架/e1f3c1423014acd77d6282114faf6935\" title=\"\" target=\"_blank\" rel=\"noopener noreferrer\">commander</a>"},{"t":"list_item","d":5,"v":"<a href=\"docs/工程化/脚手架/自定义一个脚手架/a22104b4d4d83949f5bd3d6a37f5e0e6\" title=\"\" target=\"_blank\" rel=\"noopener noreferrer\">使用mrm自动生成rc配置文件</a>"}]}]},{"t":"list_item","d":3,"v":"依赖管理","c":[{"t":"list_item","d":4,"v":"monorepo","c":[{"t":"list_item","d":5,"v":"<a href=\"docs/工程化/依赖管理/monorepo/9a9bdec52d1d0df963f2fce797a41aeb\" title=\"\" target=\"_blank\" rel=\"noopener noreferrer\">monorepo</a>"}]},{"t":"list_item","d":4,"v":"npm","c":[{"t":"list_item","d":5,"v":"<a href=\"docs/工程化/依赖管理/npm/15732057d56b45df172c9f42dce5b927\" title=\"\" target=\"_blank\" rel=\"noopener noreferrer\">5WHY</a>"},{"t":"list_item","d":5,"v":"<a href=\"docs/工程化/依赖管理/npm/b4cd825516ccfa3a2629d71cd4d83e57\" title=\"\" target=\"_blank\" rel=\"noopener noreferrer\">npm基础</a>"},{"t":"list_item","d":5,"v":"<a href=\"docs/工程化/依赖管理/npm/5fce1d4981826dba4313269418bc61cc\" title=\"\" target=\"_blank\" rel=\"noopener noreferrer\">npm包发布</a>"},{"t":"list_item","d":5,"v":"<a href=\"docs/工程化/依赖管理/npm/1db0a7579e96a363551decd8e85b6344\" title=\"\" target=\"_blank\" rel=\"noopener noreferrer\">unpkg校验包是否发布过todo</a>"},{"t":"list_item","d":5,"v":"<a href=\"docs/工程化/依赖管理/npm/f8e85efb13561e8ef5b95ea6fa058971\" title=\"\" target=\"_blank\" rel=\"noopener noreferrer\">获取npm上包源码</a>"},{"t":"list_item","d":5,"v":"<a href=\"docs/工程化/依赖管理/npm/3d58eee4c0acb507c3e44d4009328e72\" title=\"\" target=\"_blank\" rel=\"noopener noreferrer\">比较npm包下载和star等数据</a>"},{"t":"list_item","d":5,"v":"<a href=\"docs/工程化/依赖管理/npm/f60305b20503e9d2ad9309764e2f6033\" title=\"\" target=\"_blank\" rel=\"noopener noreferrer\">可视化查看npm包依赖关系</a>"}]},{"t":"list_item","d":4,"v":"yarn","c":[{"t":"list_item","d":5,"v":"<a href=\"docs/工程化/依赖管理/yarn/9ae9305418cff5aa629668bf9bc2f1f2\" title=\"\" target=\"_blank\" rel=\"noopener noreferrer\">yarn_link</a>"}]},{"t":"list_item","d":4,"v":"常见问题","c":[{"t":"list_item","d":5,"v":"<a href=\"docs/工程化/依赖管理/常见问题/80c3108e07b7e17fbc2f62fe3ce3cf5a\" title=\"\" target=\"_blank\" rel=\"noopener noreferrer\">npm发布丢失子文件中的文件</a>"},{"t":"list_item","d":5,"v":"<a href=\"docs/工程化/依赖管理/常见问题/4bb2ebe839492522a5f9e23333349030\" title=\"\" target=\"_blank\" rel=\"noopener noreferrer\">package.json字段详解</a>"},{"t":"list_item","d":5,"v":"<a href=\"docs/工程化/依赖管理/常见问题/e2b91ae01897224042badfeabb4e9943\" title=\"\" target=\"_blank\" rel=\"noopener noreferrer\">yarn全局安装依赖提示has_no_binaries</a>"},{"t":"list_item","d":5,"v":"<a href=\"docs/工程化/依赖管理/常见问题/5465da474f6f60291fb1a253cce06f5f\" title=\"\" target=\"_blank\" rel=\"noopener noreferrer\">如何调试node_modules中的包</a>"},{"t":"list_item","d":5,"v":"<a href=\"docs/工程化/依赖管理/常见问题/8661f79af48a1805d3bb8e9b0776c7af\" title=\"\" target=\"_blank\" rel=\"noopener noreferrer\">如何语义化发布包</a>"}]}]},{"t":"list_item","d":3,"v":"协议规范","c":[{"t":"list_item","d":4,"v":"<a href=\"docs/工程化/协议规范/11d34bb17b6b6518fe13a517e8018b61\" title=\"\" target=\"_blank\" rel=\"noopener noreferrer\">changelog规范</a>"},{"t":"list_item","d":4,"v":"<a href=\"docs/工程化/协议规范/ea0f1a36d31f9c158a2e4ccfce38a876\" title=\"\" target=\"_blank\" rel=\"noopener noreferrer\">commit规范</a>"},{"t":"list_item","d":4,"v":"<a href=\"docs/工程化/协议规范/7cb3f7a96ffb83a09cd86829799a9fbf\" title=\"\" target=\"_blank\" rel=\"noopener noreferrer\">license规范</a>"},{"t":"list_item","d":4,"v":"<a href=\"docs/工程化/协议规范/49a592b47a06fa922f7d3741cac14eb8\" title=\"\" target=\"_blank\" rel=\"noopener noreferrer\">readme规范</a>"},{"t":"list_item","d":4,"v":"<a href=\"docs/工程化/协议规范/6da04cfcfd8b3c384aac71250ab4ca40\" title=\"\" target=\"_blank\" rel=\"noopener noreferrer\">版本语义化</a>"}]},{"t":"list_item","d":3,"v":"版本管理","c":[{"t":"list_item","d":4,"v":"git","c":[{"t":"list_item","d":5,"v":"<a href=\"docs/工程化/版本管理/git/a3c10acfacecd20085ffd19a4b785459\" title=\"\" target=\"_blank\" rel=\"noopener noreferrer\">git</a>"},{"t":"list_item","d":5,"v":"<a href=\"docs/工程化/版本管理/git/312c951b7bed071f4a67dda0bf41816c\" title=\"\" target=\"_blank\" rel=\"noopener noreferrer\">git进阶</a>"},{"t":"list_item","d":5,"v":"<a href=\"docs/工程化/版本管理/git/d22c453d0f1b235abd0a15ed6699608a\" title=\"\" target=\"_blank\" rel=\"noopener noreferrer\">自动删除已经合并分支</a>"}]},{"t":"list_item","d":4,"v":"svn"}]},{"t":"list_item","d":3,"v":"埋点和异常上报"},{"t":"list_item","d":3,"v":"代码格式化和校验","c":[{"t":"list_item","d":4,"v":"eslint","c":[{"t":"list_item","d":5,"v":"常见问题","c":[{"t":"list_item","d":6,"v":"<a href=\"docs/工程化/代码格式化和校验/eslint/常见问题/233da306cf55234202a23869df56766b\" title=\"\" target=\"_blank\" rel=\"noopener noreferrer\">eslint报错no-unpublished-require</a>"}]},{"t":"list_item","d":5,"v":"<a href=\"docs/工程化/代码格式化和校验/eslint/a32e173f131f0493cb5fc48bf410366b\" title=\"\" target=\"_blank\" rel=\"noopener noreferrer\">开发一个eslint规则包</a>"}]}]}]},{"t":"list_item","d":2,"v":"浏览器","c":[{"t":"list_item","d":3,"v":"存储","c":[{"t":"list_item","d":4,"v":"cookie","c":[{"t":"list_item","d":5,"v":"<a href=\"docs/浏览器/存储/cookie/e246237f5824539bdb32194314b5afd5\" title=\"\" target=\"_blank\" rel=\"noopener noreferrer\">cookie的samesite</a>"}]},{"t":"list_item","d":4,"v":"indexDB"},{"t":"list_item","d":4,"v":"localStorage"},{"t":"list_item","d":4,"v":"sessionStorage"}]},{"t":"list_item","d":3,"v":"性能"},{"t":"list_item","d":3,"v":"缓存"},{"t":"list_item","d":3,"v":"跨域"},{"t":"list_item","d":3,"v":"事件机制","c":[{"t":"list_item","d":4,"v":"<a href=\"docs/浏览器/事件机制/87752b53c7784786dab3942f0aaa23aa\" title=\"\" target=\"_blank\" rel=\"noopener noreferrer\">事件机制</a>"}]},{"t":"list_item","d":3,"v":"插件开发","c":[{"t":"list_item","d":4,"v":"<a href=\"docs/浏览器/插件开发/05456f7f836f1d5ccf67498cad9d6745\" title=\"\" target=\"_blank\" rel=\"noopener noreferrer\">chrome扩展程序</a>"},{"t":"list_item","d":4,"v":"<a href=\"docs/浏览器/插件开发/4a29e3516544d5fec60d6c604d33dd46\" title=\"\" target=\"_blank\" rel=\"noopener noreferrer\">create-react-app创建谷歌扩展</a>"}]},{"t":"list_item","d":3,"v":"渲染机制"},{"t":"list_item","d":3,"v":"事件循环机制","c":[{"t":"list_item","d":4,"v":"<a href=\"docs/浏览器/事件循环机制/9cf564181c2b2d6a44c89a4d1f4f0952\" title=\"\" target=\"_blank\" rel=\"noopener noreferrer\">深入理解js事件循环机制（浏览器篇）</a>"}]}]},{"t":"list_item","d":2,"v":"<a href=\"docs/95a148348b289ba387509c05eb1c6af2\" title=\"\" target=\"_blank\" rel=\"noopener noreferrer\">关于该repo</a>"},{"t":"list_item","d":2,"v":"前端安全"},{"t":"list_item","d":2,"v":"工具调试","c":[{"t":"list_item","d":3,"v":"charles"},{"t":"list_item","d":3,"v":"chrome","c":[{"t":"list_item","d":4,"v":"插件"},{"t":"list_item","d":4,"v":"控制台"}]},{"t":"list_item","d":3,"v":"vscode","c":[{"t":"list_item","d":4,"v":"插件","c":[{"t":"list_item","d":5,"v":"<a href=\"docs/Node.js/常用npm_package/9688efbb3877b7be40b25452ccaef48f\" title=\"\" target=\"_blank\" rel=\"noopener noreferrer\">清单</a>"}]},{"t":"list_item","d":4,"v":"快捷键"}]}]},{"t":"list_item","d":2,"v":"性能优化"},{"t":"list_item","d":2,"v":"操作系统","c":[{"t":"list_item","d":3,"v":"linux","c":[{"t":"list_item","d":4,"v":"linux基础","c":[{"t":"list_item","d":5,"v":"<a href=\"docs/操作系统/linux/linux基础/4c70355f2f692142ff83f1581fd5342c\" title=\"\" target=\"_blank\" rel=\"noopener noreferrer\">yum</a>"},{"t":"list_item","d":5,"v":"<a href=\"docs/工程化/打包/webpack/loader/自定义loader/bb6fe2d423417230b7c365bc5b206c5c\" title=\"\" target=\"_blank\" rel=\"noopener noreferrer\">基础</a>"},{"t":"list_item","d":5,"v":"<a href=\"docs/ECMASCript/b53484b1bcbe1911e09c68d510ac7d64\" title=\"\" target=\"_blank\" rel=\"noopener noreferrer\">学习资源</a>"}]},{"t":"list_item","d":4,"v":"脚本","c":[{"t":"list_item","d":5,"v":"<a href=\"docs/操作系统/linux/脚本/5d8743a01675138db72310478b6c7f30\" title=\"\" target=\"_blank\" rel=\"noopener noreferrer\">bash_shell脚本</a>"},{"t":"list_item","d":5,"v":"<a href=\"docs/操作系统/linux/脚本/c89e3ed149c086944696ba0fe3a5ffde\" title=\"\" target=\"_blank\" rel=\"noopener noreferrer\">expect脚本</a>"}]}]},{"t":"list_item","d":3,"v":"常见问题","c":[{"t":"list_item","d":4,"v":"<a href=\"docs/操作系统/常见问题/266a427dc6cbff56d8603056f435a8b9\" title=\"\" target=\"_blank\" rel=\"noopener noreferrer\">进程和线程区别todo</a>"}]}]},{"t":"list_item","d":2,"v":"网络协议","c":[{"t":"list_item","d":3,"v":"<a href=\"docs/网络协议/51598b43a209ae4d33a59bb92df20032\" title=\"\" target=\"_blank\" rel=\"noopener noreferrer\">图解http</a>"}]},{"t":"list_item","d":2,"v":"设计模式"},{"t":"list_item","d":2,"v":"微信公众号"},{"t":"list_item","d":2,"v":"算法和数据结构"},{"t":"list_item","d":2,"v":"移动端跨平台开发"}]},(loadPlugins, items, opts) => loadPlugins(items, opts),["prism"],{"prism":true})</script>
 </body>
 </html>
